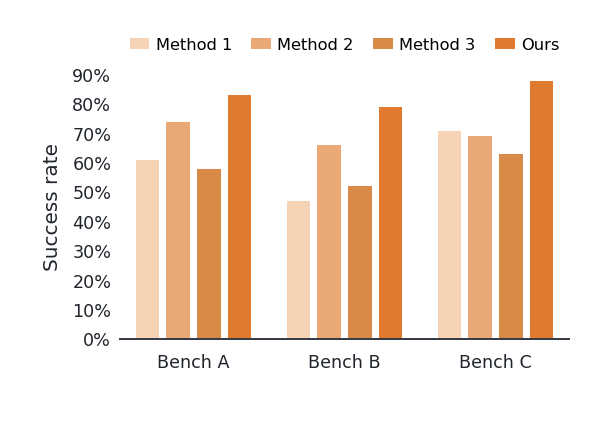
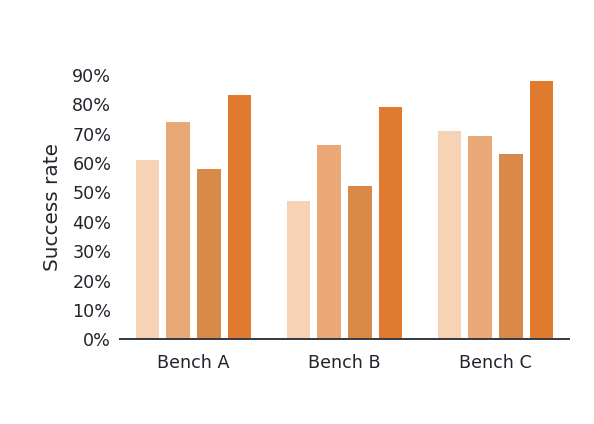
feat(figures): add 2d grid and expand layout/size review

Changed region(s): [[0.4242, 0.092, 0.9394, 0.1226], [0.2121, 0.092, 0.3939, 0.1226]]

diff --git a/research-figure-skill/examples/axis-review/render_review.py b/research-figure-skill/examples/axis-review/render_review.py
@@ -46,8 +46,11 @@ CATEGORICAL = {
 }
 GRIDS = {
     "none": {"kind": "none"},
-    "hairline": {"kind": "lines", "color": "#D9DEE3", "linewidth": .4, "linestyle": "-", "alpha": 1},
-    "dashed": {"kind": "lines", "color": "#BFC7CF", "linewidth": .5, "linestyle": [0, [4, 4]], "alpha": 1},
+    "h-hairline": {"kind": "lines", "axis": "value", "color": "#D9DEE3", "linewidth": .4, "linestyle": "-", "alpha": 1},
+    "h-dashed": {"kind": "lines", "axis": "value", "color": "#BFC7CF", "linewidth": .5, "linestyle": [0, [4, 4]], "alpha": 1},
+    "v-hairline": {"kind": "lines", "axis": "category", "color": "#D9DEE3", "linewidth": .4, "linestyle": "-", "alpha": 1},
+    "full-hairline": {"kind": "lines", "axis": "both", "color": "#D9DEE3", "linewidth": .4, "linestyle": "-", "alpha": 1},
+    "full-dashed": {"kind": "lines", "axis": "both", "color": "#BFC7CF", "linewidth": .5, "linestyle": [0, [4, 4]], "alpha": 1},
     "dots": {"kind": "dots", "color": "#BDBDBD", "spacing_pt": 10.5, "size": .75, "alpha": 1},
 }
 
@@ -75,7 +78,7 @@ def config(rows, *, style="paper-clean", layout="grouped", size="single",
            font="sans", colors=None, labels=None, grid="none", legend=True,
            fill=None, edge=None, hatch=None, fonts=None, baseline_only=False,
            tick_format=".0%", ylabel="Success rate", panels=None, gains=None,
-           capacity=None, reference_lines=None):
+           capacity=None, reference_lines=None, figure_size=None):
     order = list(dict.fromkeys(row["series"] for row in rows))
     palette = {}
     if colors:
@@ -119,6 +122,8 @@ def config(rows, *, style="paper-clean", layout="grouped", size="single",
     }
     if panels:
         cfg["panels"] = panels
+    if figure_size:
+        cfg["figure"]["size_pt"] = figure_size
     if gains:
         cfg["gains"] = gains
     if fonts:
@@ -288,13 +293,25 @@ def fonts():
 
 def layouts():
     items = []
-    for layout in ("grouped", "horizontal", "paired"):
-        use = read("paired.csv") if layout == "paired" else read("focus.csv")
-        labels = LABELS2 if layout == "paired" else LABELS4
-        colors = PAIRS["blue"] if layout == "paired" else D_ORANGE + [ACCENTS["orange"]]
-        cfg = config(use, layout=layout, colors=colors, labels=labels)
-        img = render_panel(use, cfg, f"layout-{layout}")
-        items.append({"image": img, "label": layout, "note": ""})
+    cases = [
+        ("vertical-1series", "single.csv", "grouped", "single", ["Method"], [ACCENTS["orange"]],
+         {"method": "Method"}, 1),
+        ("vertical-2series", "paired.csv", "grouped", "single", ["Before", "After"], PAIRS["blue"],
+         LABELS2, 2),
+        ("vertical-4series", "focus.csv", "grouped", "single", ["Method 1", "Method 2", "Method 3", "Ours"],
+         D_ORANGE + [ACCENTS["orange"]], LABELS4, 1),
+        ("horizontal-1series", "single.csv", "horizontal", "single", ["Method"], [ACCENTS["orange"]],
+         {"method": "Method"}, 1),
+        ("horizontal-2series", "paired.csv", "horizontal", "single", ["Before", "After"], PAIRS["blue"],
+         LABELS2, 2),
+    ]
+    for name, data, layout, size, _, colors, labels, _ in cases:
+        rows = read(data)
+        cfg = config(rows, layout=layout, size=size, colors=colors, labels=labels)
+        if layout == "horizontal":
+            cfg["panel_defaults"]["group_gap"] = .06 if len(colors) == 1 else .12
+        img = render_panel(rows, cfg, f"layout-{name}")
+        items.append({"image": img, "label": name, "note": layout})
     use = read("panels.csv")
     cfg = config(use, layout="grouped", size="double",
                  colors=[D_ORANGE[1], D_ORANGE[2], ACCENTS["orange"]],
@@ -302,19 +319,30 @@ def layouts():
                  panels=[{"id": "Environment A"}, {"id": "Environment B"}])
     img = render_panel(use, cfg, "layout-multi-panel")
     items.append({"image": img, "label": "multi-panel", "note": "2 panels"})
-    make_sheet("layout", "grouped / horizontal / paired / multi-panel。",
+    make_sheet("layout", "orientation × series count × panel count；paired 只是 2-series 的情况。",
                items, 2, "10-layout.png")
 
 
 def sizes():
     rows = read("focus.csv")
+    specs = [
+        ("tiny", "single", [144, 100], "2.0 × 1.4 in"),
+        ("single", "single", [237.6, 169.7], "3.3 × 2.36 in"),
+        ("square", "single", [237.6, 237.6], "3.3 × 3.3 in"),
+        ("wide", "single", [237.6, 130], "3.3 × 1.8 in"),
+        ("medium", "medium", [324, 231.4], "4.5 × 3.2 in"),
+        ("double", "double", [504, 360], "7 × 5 in"),
+        ("double-wide", "double", [504, 260], "7 × 3.6 in"),
+        ("slide", "slide", [648, 364.5], "9 × 5.06 in"),
+        ("tall", "single", [180, 300], "2.5 × 4.2 in"),
+    ]
     items = []
-    for size, note in (("single", "3.3 in"), ("medium", "4.5 in"),
-                       ("double", "7 in"), ("slide", "9 in / 16:9")):
-        cfg = config(rows, size=size, colors=D_ORANGE + [ACCENTS["orange"]], labels=LABELS4)
-        img = render_panel(rows, cfg, f"size-{size}")
-        items.append({"image": img, "label": size, "note": note})
-    make_sheet("size", "同一份数据，只换最终物理宽度。", items, 2, "11-size.png")
+    for name, preset, size_pt, note in specs:
+        cfg = config(rows, size=preset, colors=D_ORANGE + [ACCENTS["orange"]],
+                     labels=LABELS4, figure_size=size_pt, legend=False)
+        img = render_panel(rows, cfg, f"size-{name}")
+        items.append({"image": img, "label": name, "note": note})
+    make_sheet("size", "宽度、高度、长宽比都不同；不只是 single/double。", items, 3, "11-size.png")
 
 
 def annotations():
@@ -328,7 +356,7 @@ def annotations():
 
     cap = read("capacity.csv")
     cfg = config(cap, colors=["#A3ACB9"], labels={"achieved": "Achieved"},
-                 tick_format=".0f", ylabel="Items", grid="hairline",
+                 tick_format=".0f", ylabel="Items", grid="h-hairline",
                  capacity={"field": "capacity", "label_format": "{value}/{capacity}",
                            "show_percent": True})
     cfg["panel_defaults"]["bar_width"] = .35

diff --git a/research-figure-skill/quantitative-plots/grouped-bar/scripts/render.py b/research-figure-skill/quantitative-plots/grouped-bar/scripts/render.py
@@ -61,7 +61,8 @@ DEFAULTS = {
         'capacity': {'field': None, 'linestyle': '--', 'edge_width': .7,
                      'alpha': .45, 'label_format': '{value}/{capacity}', 'show_percent': True},
         'grid': {'kind': 'dots', 'spacing_pt': 10.5, 'value_step': 'auto',
-                 'value_stop': 'auto', 'size': .75, 'color': '#bdbdbd', 'alpha': 1, 'max_points': 50000,
+                 'value_stop': 'auto', 'axis': 'value',
+                 'size': .75, 'color': '#bdbdbd', 'alpha': 1, 'max_points': 50000,
                  'linewidth': .5, 'linestyle': '-'},
         'tokens': {'mode': 'readable', 'size': 6.3, 'gap': 2.6, 'padding_em': [.16, .16],
                    'height_em': 1.333333, 'baseline_em': .405, 'rounding': .194444,
@@ -707,7 +708,10 @@ def build_figure(config, rows, font_dir=None):
                            color=grid['color'], alpha=grid['alpha'], edgecolors='none', zorder=0, clip_on=True)
             elif grid['kind'] == 'lines':
                 linestyle=tuple(grid['linestyle']) if isinstance(grid['linestyle'],list) else grid['linestyle']
-                ax.set_axisbelow(True); ax.grid(axis=value_axis,color=grid['color'],alpha=grid['alpha'],
+                grid_axis={'value':value_axis,'category':category_axis,'both':'both'}.get(grid.get('axis','value'))
+                if grid_axis is None:
+                    raise ValueError('grid.axis must be value, category or both')
+                ax.set_axisbelow(True); ax.grid(axis=grid_axis,color=grid['color'],alpha=grid['alpha'],
                                                linewidth=grid['linewidth'],linestyle=linestyle)
             elif grid['kind'] != 'none':
                 raise ValueError('grid.kind must be dots, lines, or none')

diff --git a/research-figure-skill/quantitative-plots/grouped-bar/scripts/test_render.py b/research-figure-skill/quantitative-plots/grouped-bar/scripts/test_render.py
@@ -222,6 +222,15 @@ def test_reference_line_and_label_are_drawn():
     assert any(text.get_text()=='SOTA' for text in ax.texts)
 
 
+def test_grid_lines_can_target_both_axes():
+    rows=[{'id':'a','panel':'p','group':'A','series':'base','value':.6}]
+    config={'panels':[{'id':'p'}],'panel_defaults':{'grid':{'kind':'lines','axis':'both'}}}
+    fig,_=build_figure(config,rows)
+    ax=fig.axes[0]
+    assert any(line.get_visible() for line in ax.xaxis.get_gridlines())
+    assert any(line.get_visible() for line in ax.yaxis.get_gridlines())
+
+
 def test_fixed_panel_rectangles_do_not_require_auto_grid():
     panels=[{'id':str(i),'rect_pt':[i*10,0,10,10]} for i in range(5)]
     config={'figure':{'size_pt':[360,210]},'layout':{'columns':1},'panels':panels}
